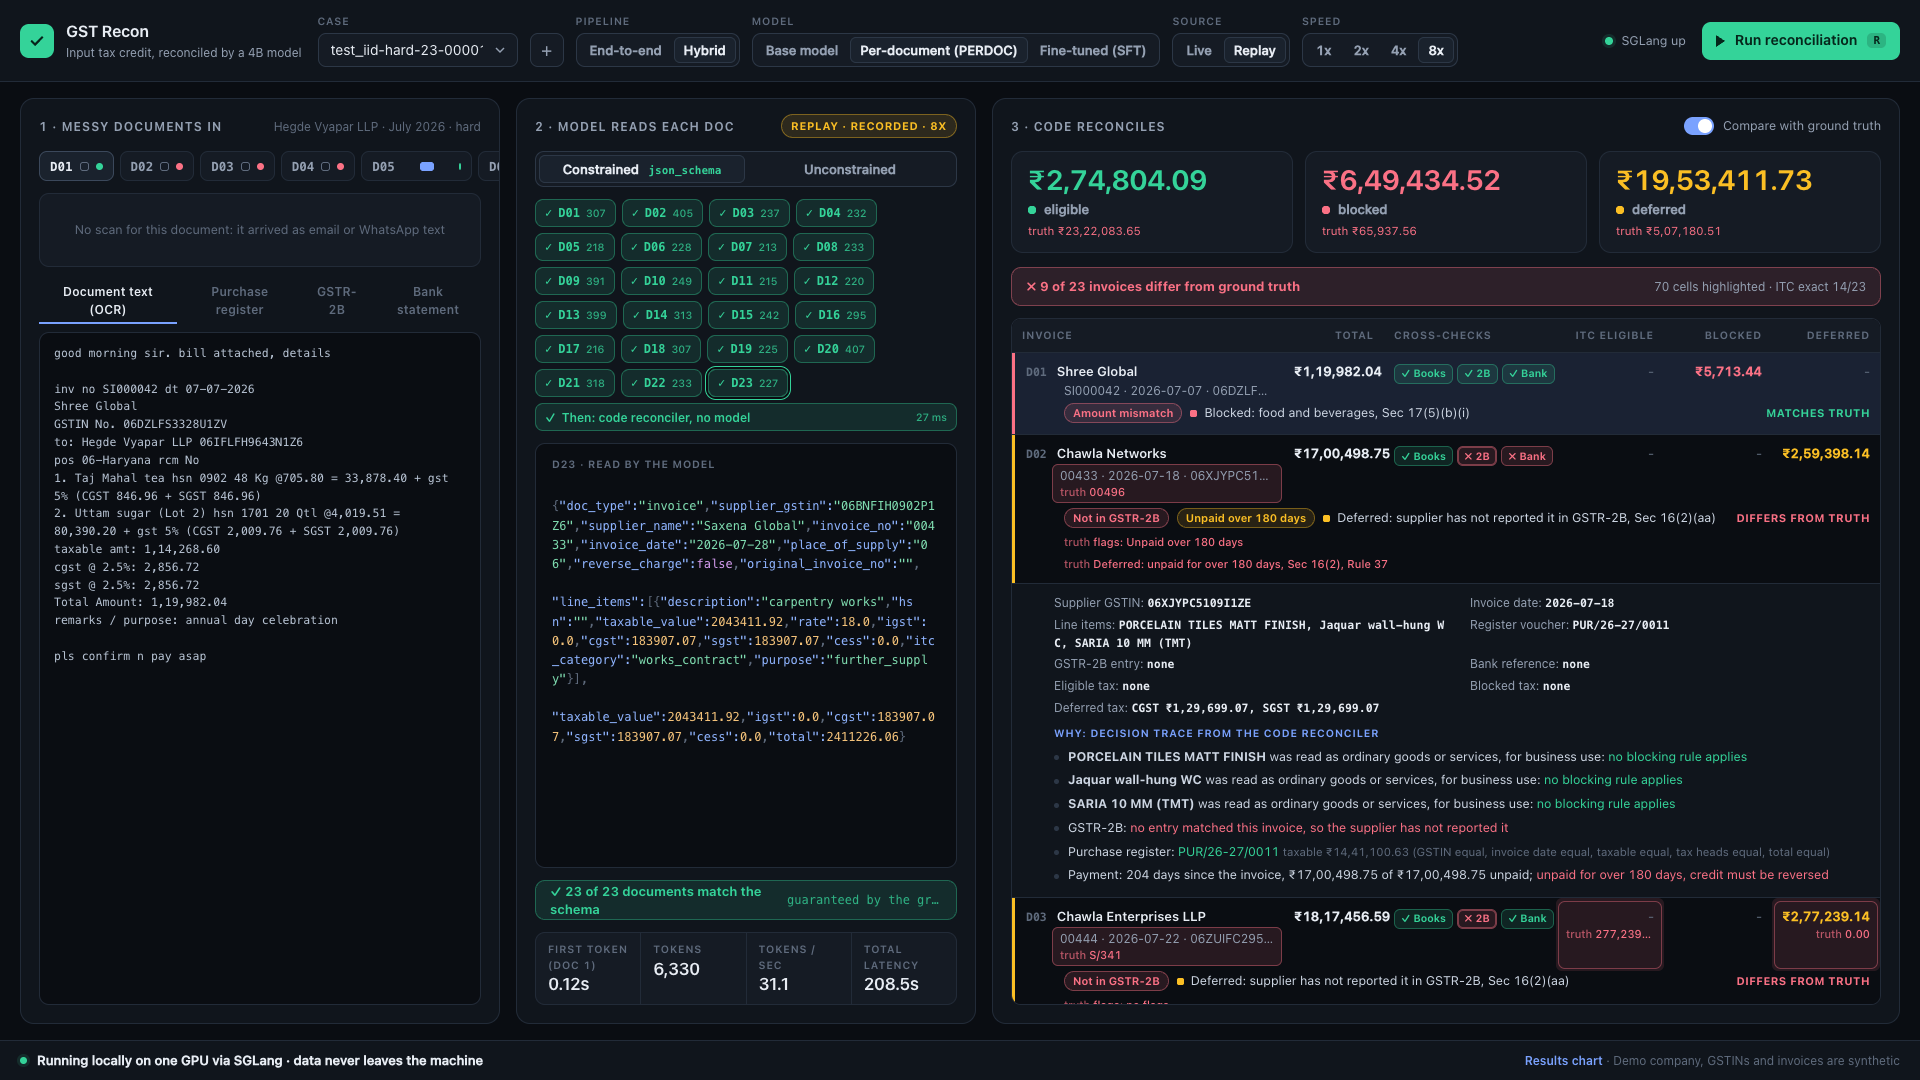
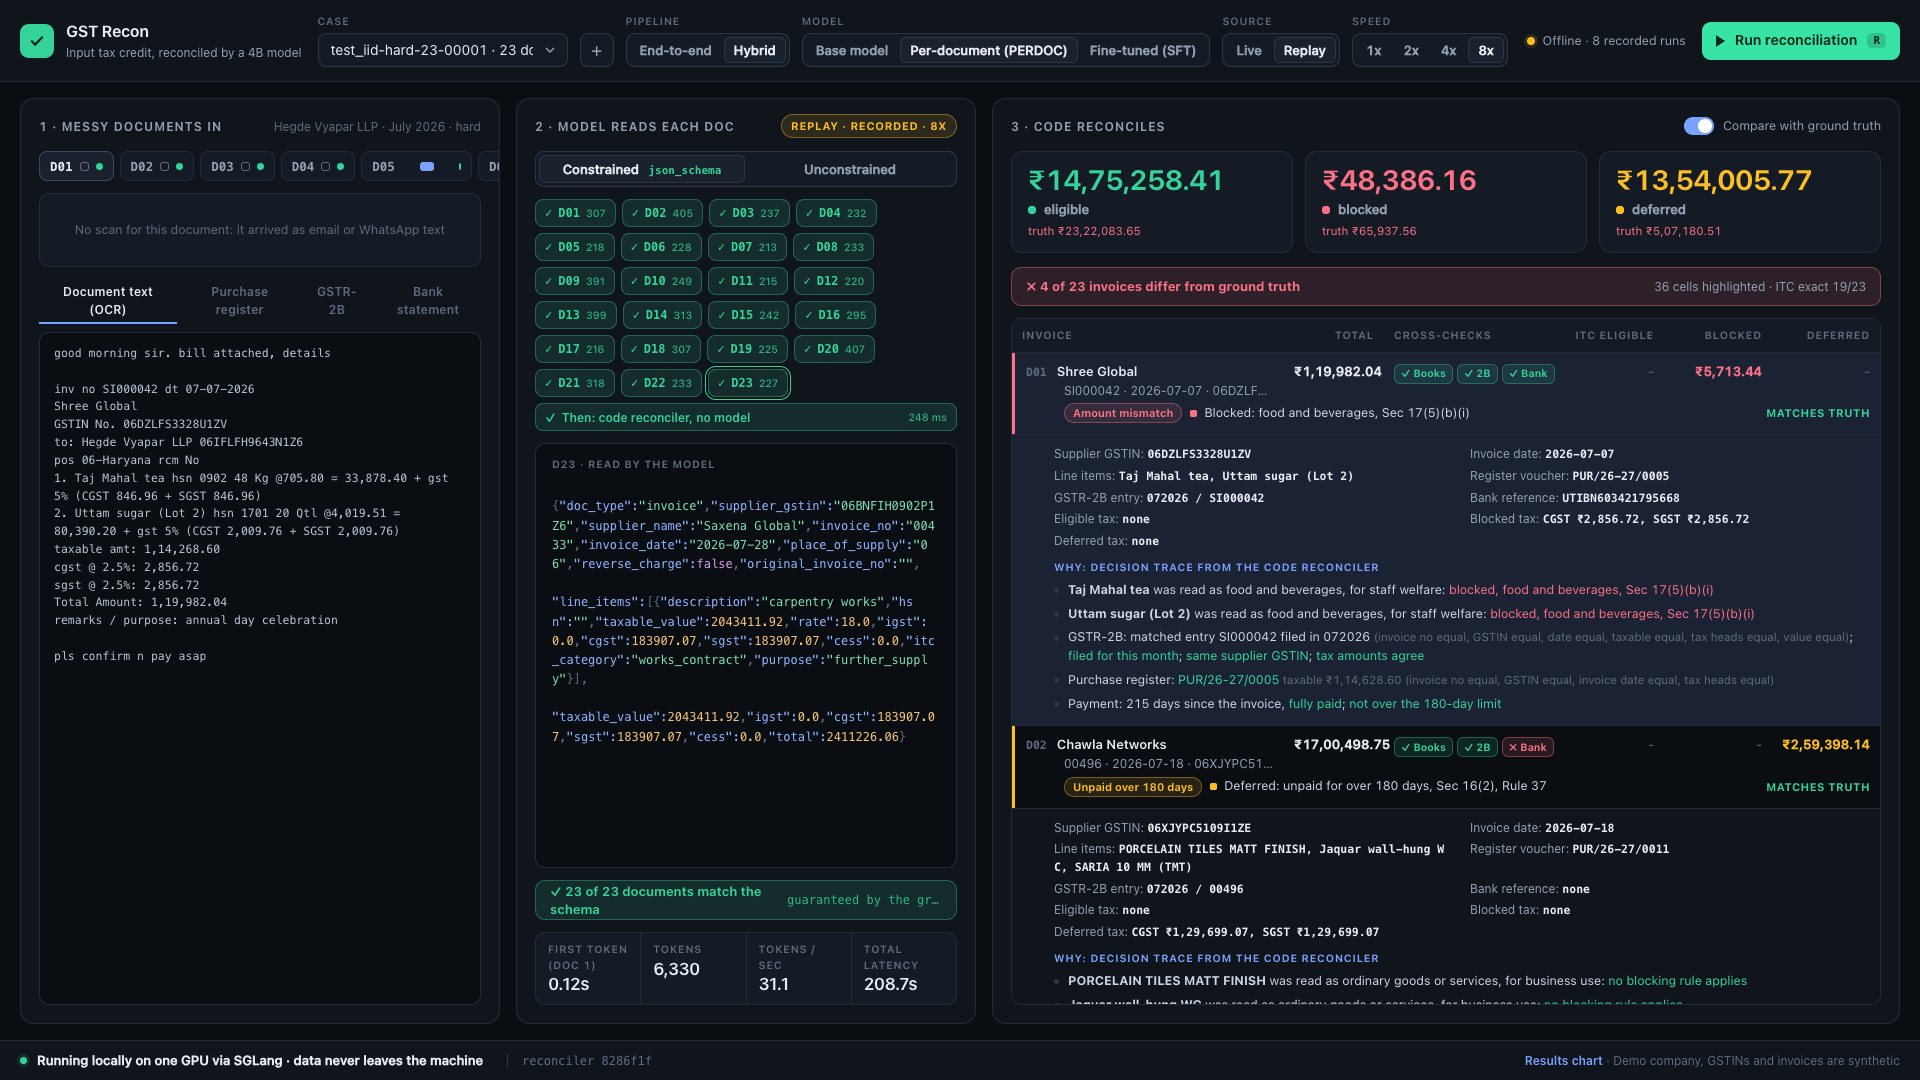
feat(demo): re-shoot screenshots on reconciler v3 (62899b7); shorter offline label so the status pill no longer overlaps the speed buttons

diff --git a/demo/static/style.css b/demo/static/style.css
@@ -51,7 +51,7 @@ select:hover { border-color: #3b485b; }
 .seg.wide { width: 100%; height: 36px; }
 .seg.wide button { flex: 1; }
 .top-right { display: flex; align-items: center; gap: 16px; }
-.srv { display: flex; align-items: center; gap: 8px; font-size: 12.5px; color: var(--muted); white-space: nowrap; }
+.srv { flex: none; display: flex; align-items: center; gap: 8px; font-size: 12.5px; color: var(--muted); white-space: nowrap; }
 .srv i { width: 8px; height: 8px; border-radius: 50%; background: var(--dim); }
 .srv.up i { background: var(--ok); box-shadow: 0 0 0 3px var(--ok-bg); }
 .srv.down i { background: var(--warn); box-shadow: 0 0 0 3px var(--warn-bg); }

diff --git a/demo/static/app.js b/demo/static/app.js
@@ -42,7 +42,7 @@ async function refreshHealth() {
   el.className = "srv " + (h.live ? "up" : "down");
   el.querySelector("span").textContent = h.live
     ? `SGLang up${h.running != null ? ` \u00B7 ${h.running} running` : ""}`
-    : `SGLang offline \u00B7 ${h.recordings || 0} recorded runs`;
+    : `Offline \u00B7 ${h.recordings || 0} recorded runs`;
   document.querySelector('#modeSeg [data-mode="live"]').disabled = !h.live;
 }
 

diff --git a/demo/README.md b/demo/README.md
@@ -28,7 +28,7 @@ uv run uvicorn gst_demo.app:app --port 8765
 # open http://localhost:8765/
 ```
 
-Replay only (no GPU, no tunnel): skip the `ssh` line; the UI shows "SGLang offline" and Replay works.
+Replay only (no GPU, no tunnel): skip the `ssh` line; the UI shows "Offline" and Replay works.
 
 Config via environment:
 
